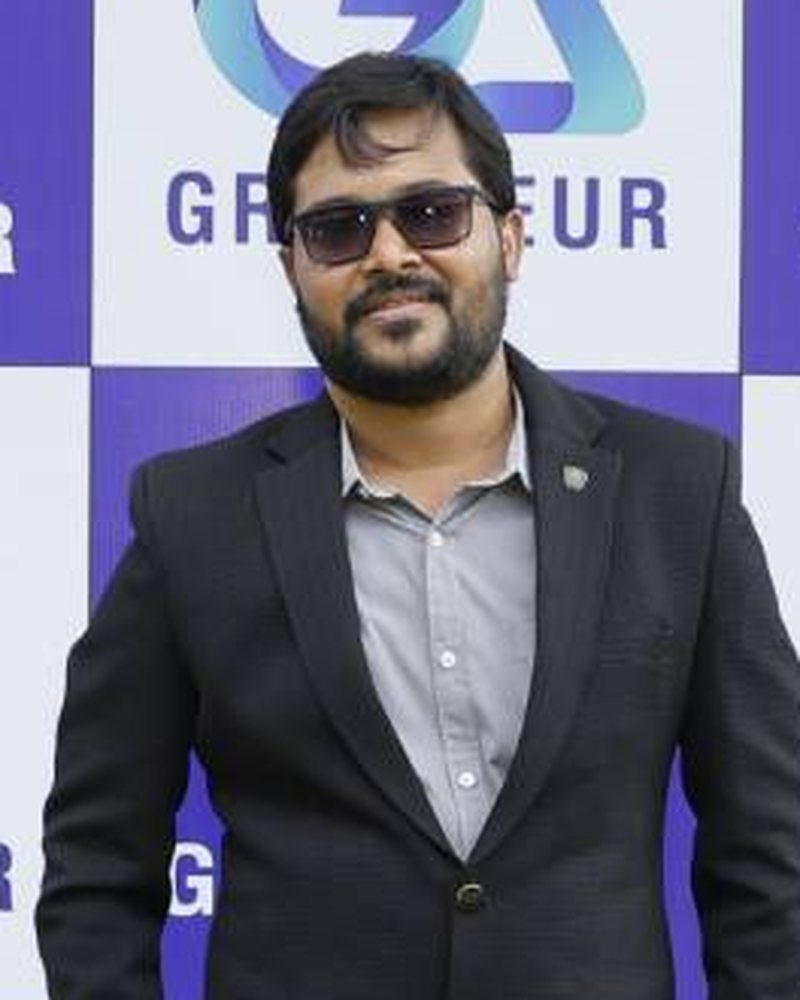
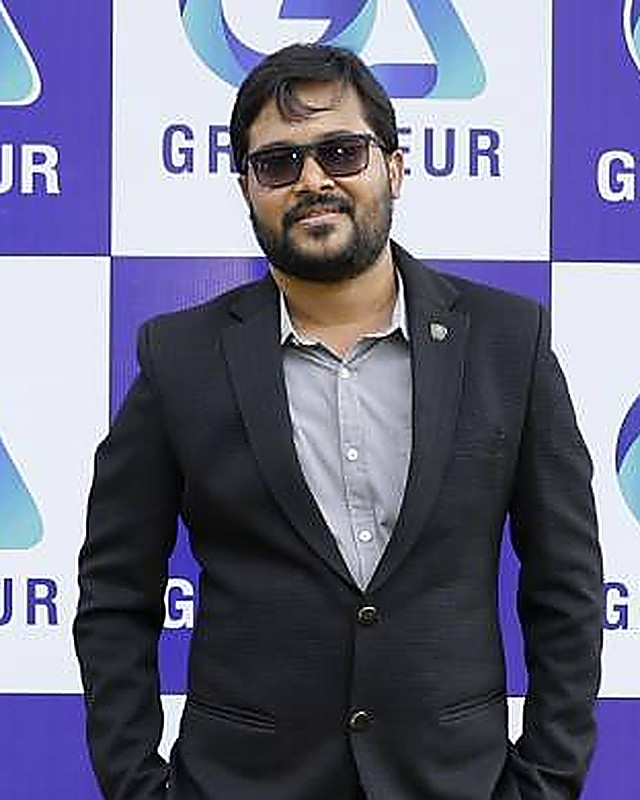
Simplify home page, sharpen Chetan's photo, trim testimonials
- Home page reduced to 8 sections in one story: hero, software, services,
  why Grandeur (photo plus one checklist covering security and working
  hours), industries, testimonials, leadership, contact call-to-action
- Removed the separate clocks, security cards and home FAQ (FAQs remain
  on service pages); home FAQPage schema removed to match
- Chetan's photo re-cropped and sharpened; team photos 640x800
- Removed Tammy Phan and Sharleen Salim testimonials

Claude-Session: https://claude.ai/code/session_016HjzwQNbkko1qhPUd2UuUh

diff --git a/src/pages/Home.jsx b/src/pages/Home.jsx
@@ -6,18 +6,14 @@ import Industries from "@/components/Industries";
 import {
   CheckList,
   CTA,
-  FAQ,
   LogoMarquee,
-  SecurityFeatures,
   ServiceCards,
   Team,
   Testimonials,
-  TimeZones,
 } from "@/components/Sections";
 import { useSEO } from "@/hooks/useSEO";
 import { FIRM, STATS } from "@/content/site";
 import { SERVICE_ORDER } from "@/content/services";
-import { HOME_FAQS } from "@/pages/homeFaqs";
 
 export default function Home() {
   useSEO();
@@ -76,10 +72,10 @@ export default function Home() {
         <div className="container">
           <div className="section-head center">
             <h2>
-              An extension of your team, <span className="hl">not a black box</span>
+              Why <span className="hl">Grandeur Advisors</span>
             </h2>
             <p className="lead">
-              Since {FIRM.founded} we have supported fast-growing e-commerce brands, manufacturers, SaaS companies and more.
+              An extension of your finance team since {FIRM.founded}, not a black box.
             </p>
           </div>
           <div className="split">
@@ -97,20 +93,16 @@ export default function Home() {
                 </span>
               </div>
             </div>
-            <div>
-              <h3 style={{ fontSize: 26 }}>How we work with you</h3>
-              <CheckList
-                items={[
-                  "One dedicated team that knows your books",
-                  "Work done inside your own software",
-                  "Reporting delivered on a schedule you agree",
-                  "NDAs, two-factor authentication and need-to-know access",
-                ]}
-              />
-            </div>
-          </div>
-          <div style={{ marginTop: "clamp(40px, 6vw, 72px)" }}>
-            <SecurityFeatures />
+            <CheckList
+              items={[
+                "One dedicated team that knows your books",
+                "Work done inside your own software: NetSuite, QuickBooks, Xero and more",
+                "Reporting delivered on a schedule you agree",
+                "US Eastern working hours, with overlap for the UK, India and Australia",
+                "NDAs signed before we see your data",
+                "Two-factor authentication and need-to-know access only",
+              ]}
+            />
           </div>
         </div>
       </section>
@@ -130,16 +122,8 @@ export default function Home() {
       </section>
 
       <section className="section">
-        <div className="container split">
-          <div>
-            <h2>
-              We work <span className="hl">when you work</span>
-            </h2>
-            <p className="lead">
-              Our day runs on US Eastern time, with comfortable overlap for clients in the UK, India and Australia.
-            </p>
-          </div>
-          <TimeZones />
+        <div className="container">
+          <Testimonials />
         </div>
       </section>
 
@@ -156,27 +140,6 @@ export default function Home() {
               More about us <Icon name="arrow" />
             </Link>
           </div>
-        </div>
-      </section>
-
-      <section className="section">
-        <div className="container">
-          <Testimonials />
-        </div>
-      </section>
-
-      <section className="section alt">
-        <div className="container split top">
-          <div>
-            <h2>
-              Questions <span className="hl">clients ask us</span>
-            </h2>
-            <p className="lead">Anything else? We're happy to help.</p>
-            <Link to="/contact-us/" className="btn btn-primary">
-              Contact us <Icon name="arrow" />
-            </Link>
-          </div>
-          <FAQ items={HOME_FAQS} />
         </div>
       </section>
 

diff --git a/src/content/people.js b/src/content/people.js
@@ -19,22 +19,6 @@ export const TESTIMONIALS = [
   },
   {
     quote:
-      "Yash Bhutada and his team have done excellent jobs on our recent Accounts Receivable, Accounts Payable, and Fixed Assets related projects with our NetSuite implementation. Their expertise, professionalism, and dedication truly set a high standard for quality work in the field of accounting. It has truly been a pleasure working with them.",
-    name: "Tammy Phan",
-    role: "CFO, HTS Poly",
-    place: "",
-    photo: "",
-  },
-  {
-    quote:
-      "Collaborating with Yash and his team has drastically improved our company's bookkeeping and accounting. Their expertise in optimizing Netsuite accounting processes has significantly enhanced our efficiency and accuracy. With their guidance, we seamlessly streamlined our workflows, saving valuable time and resources. Their dedication to month-end reconciliation is exceptional. Yash has consistently ensured that our financials are impeccably reconciled, keeping our team on track and poised for success.",
-    name: "Sharleen Salim",
-    role: "General Manager, Forestindo, Inc",
-    place: "",
-    photo: "",
-  },
-  {
-    quote:
       "It was a pleasure to work with Yash. Over the period of several months, he always had a positive, can do attitude despite numerous hurdles along the way. He worked as part of the team and was always willing to roll up his sleeves to get stuck in. From ledger accounting to reconciliations to controls, his wide range of experience is evident. I hope to work with him again soon!",
     name: "Marie Kotter",
     role: "Accounting Manager",

diff --git a/src/seo.js b/src/seo.js
@@ -4,7 +4,6 @@
 import { SERVICES, serviceBySlug } from "./content/services.js";
 import { COUNTRIES, FIRM, STANDARDS } from "./content/site.js";
 import { TEAM } from "./content/people.js";
-import { HOME_FAQS } from "./pages/homeFaqs.js";
 
 export const SITE_URL = "https://grandeuradvisory.com";
 export const SITE_NAME = "Grandeur Advisors";
@@ -121,8 +120,7 @@ export function structuredData(path) {
   const graph = [organization];
   if (page === "/") {
     graph.push(
-      { "@type": "WebSite", "@id": `${SITE_URL}/#website`, url: `${SITE_URL}/`, name: SITE_NAME, publisher: { "@id": ORG_ID } },
-      faqPage(HOME_FAQS)
+      { "@type": "WebSite", "@id": `${SITE_URL}/#website`, url: `${SITE_URL}/`, name: SITE_NAME, publisher: { "@id": ORG_ID } }
     );
   } else if (page === "/services/") {
     graph.push(

diff --git a/src/components/Sections.jsx b/src/components/Sections.jsx
@@ -240,7 +240,7 @@ export function CTA({
   text = "Tell us how your finance function works today and we'll show you where we can help.",
 }) {
   return (
-    <section className="section" style={{ paddingTop: 0 }}>
+    <section className="section">
       <div className="container">
         <div className="cta">
           <div>
